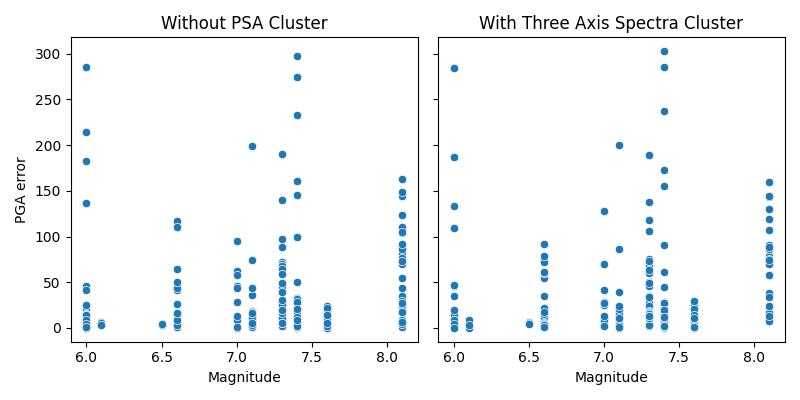
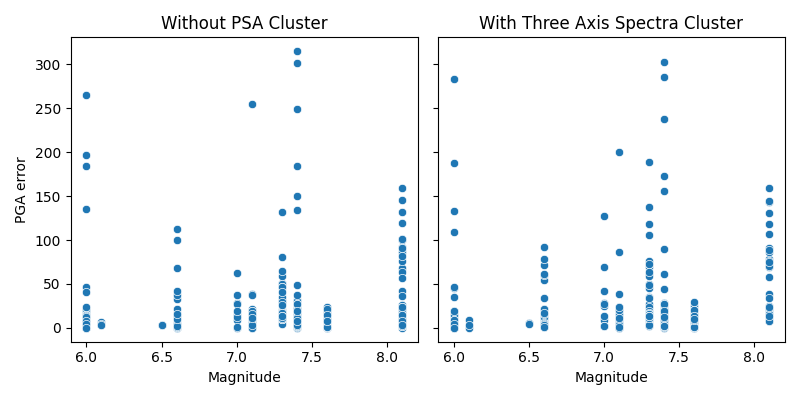
tuning xgb

diff --git a/modeling.py b/modeling.py
@@ -222,12 +222,12 @@ def tune_xgboost(X_train: pd.DataFrame, y_train: pd.Series, groups: pd.Series,
         param = {
             'objective': 'reg:squarederror',
             'n_estimators': 2000, # Fixado em um valor alto; o early_stopping decide a parada
-            'learning_rate': trial.suggest_float('learning_rate',  1e-3, 0.1, log=True), # Força um aprendizado mais lento (mais árvores)
-            'max_depth': trial.suggest_int('max_depth', 3, 15), # Limita a profundidade para evitar overfit nas folhas
+            'learning_rate': trial.suggest_float('learning_rate',  1e-3, 0.05, log=True), # Força um aprendizado mais lento (mais árvores)
+            'max_depth': trial.suggest_int('max_depth', 3, 10), # Limita a profundidade para evitar overfit nas folhas
             'subsample': trial.suggest_float('subsample', 0.5, 1.0),
             'colsample_bytree': trial.suggest_float('colsample_bytree', 0.5, 1.0),
             'min_child_weight': trial.suggest_int('min_child_weight', 0, 25),
-            'gamma': trial.suggest_float('gamma', 1e-8, 1.0, log=True),
+            'gamma': trial.suggest_float('gamma', 1e-4, 1.0, log=True),
             'reg_alpha': trial.suggest_float('reg_alpha', 1e-3, 10.0, log=True),
             'reg_lambda': trial.suggest_float('reg_lambda', 1e-3, 10.0, log=True),
             'early_stopping_rounds': 50,
@@ -275,7 +275,8 @@ def tune_xgboost(X_train: pd.DataFrame, y_train: pd.Series, groups: pd.Series,
         # Adicionamos 10% a mais (multiplicando por 1.1) porque no main.py 
         # o modelo final vai treinar com 100% dos dados (e não apenas os 80% do fold).
         # Logo, ele precisa de ligeiramente mais árvores para convergir.
-        trial.set_user_attr("optimal_trees", int(np.mean(best_iterations) * 1.1))
+        # trial.set_user_attr("optimal_trees", int(np.mean(best_iterations) * 1.1))
+        trial.set_user_attr("optimal_trees", int(np.mean(best_iterations)))
         return -np.mean(rmses)
 
     # Adiciona Sampler determinístico e Pruner (ignora as primeiras 5 trials do estudo antes de começar a podar)
